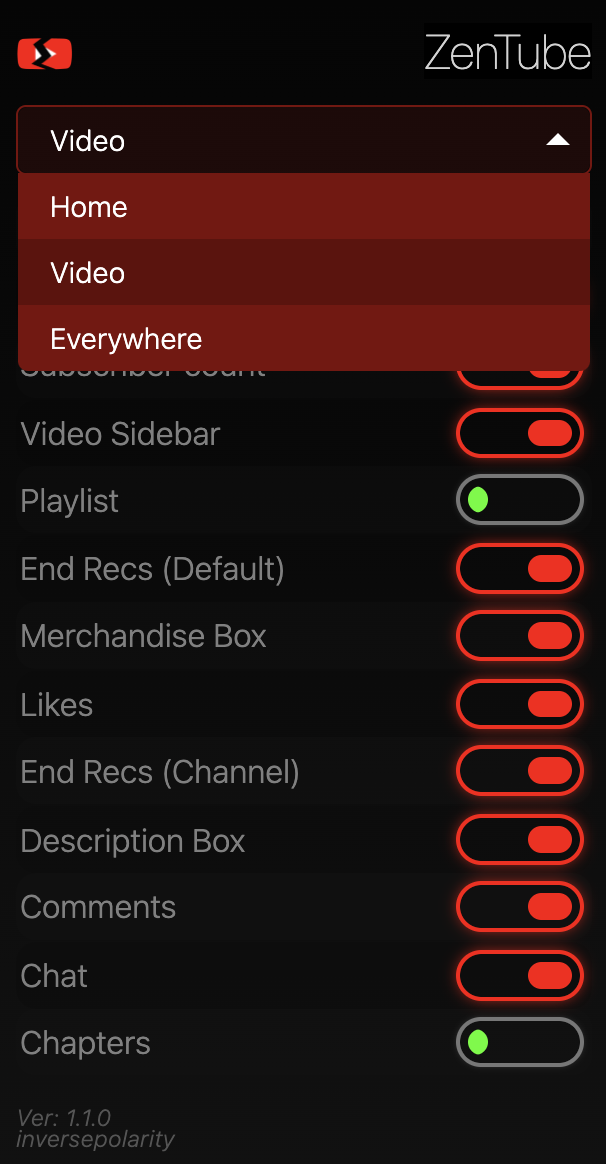
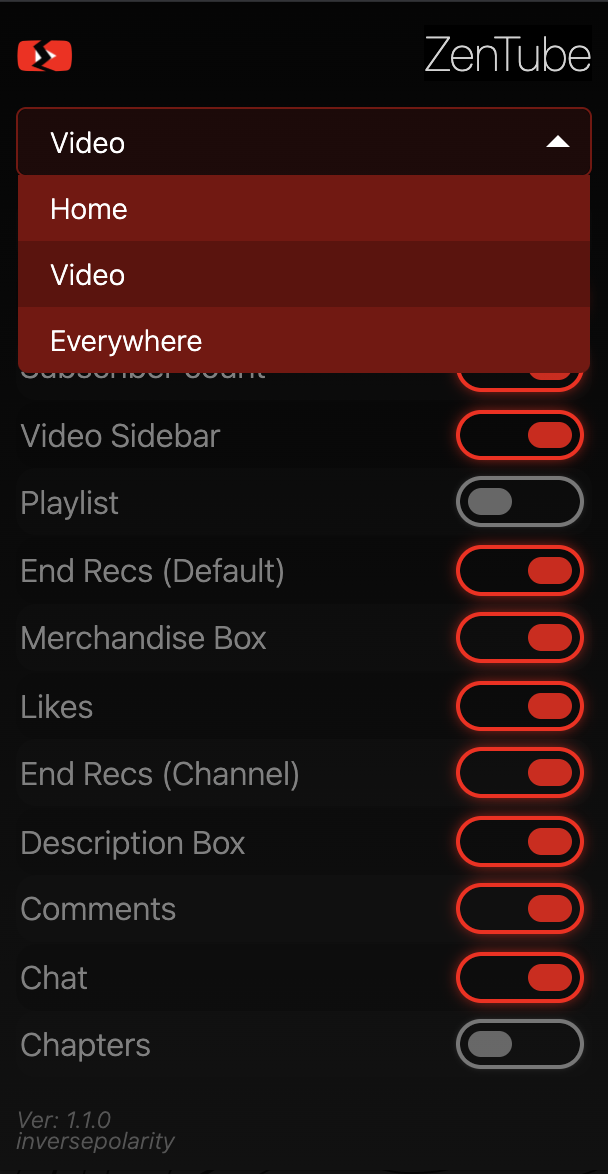
redesign

diff --git a/src/options/options.css b/src/options/options.css
@@ -121,7 +121,7 @@ p {
 	content: "";
 	width: 100%;
 	height: 100%;
-	background-color: #3cff00;
+	background-color: #777;
 	border-radius: 30px;
 	transform: translateX(-30px);
 	opacity: 0.85;
